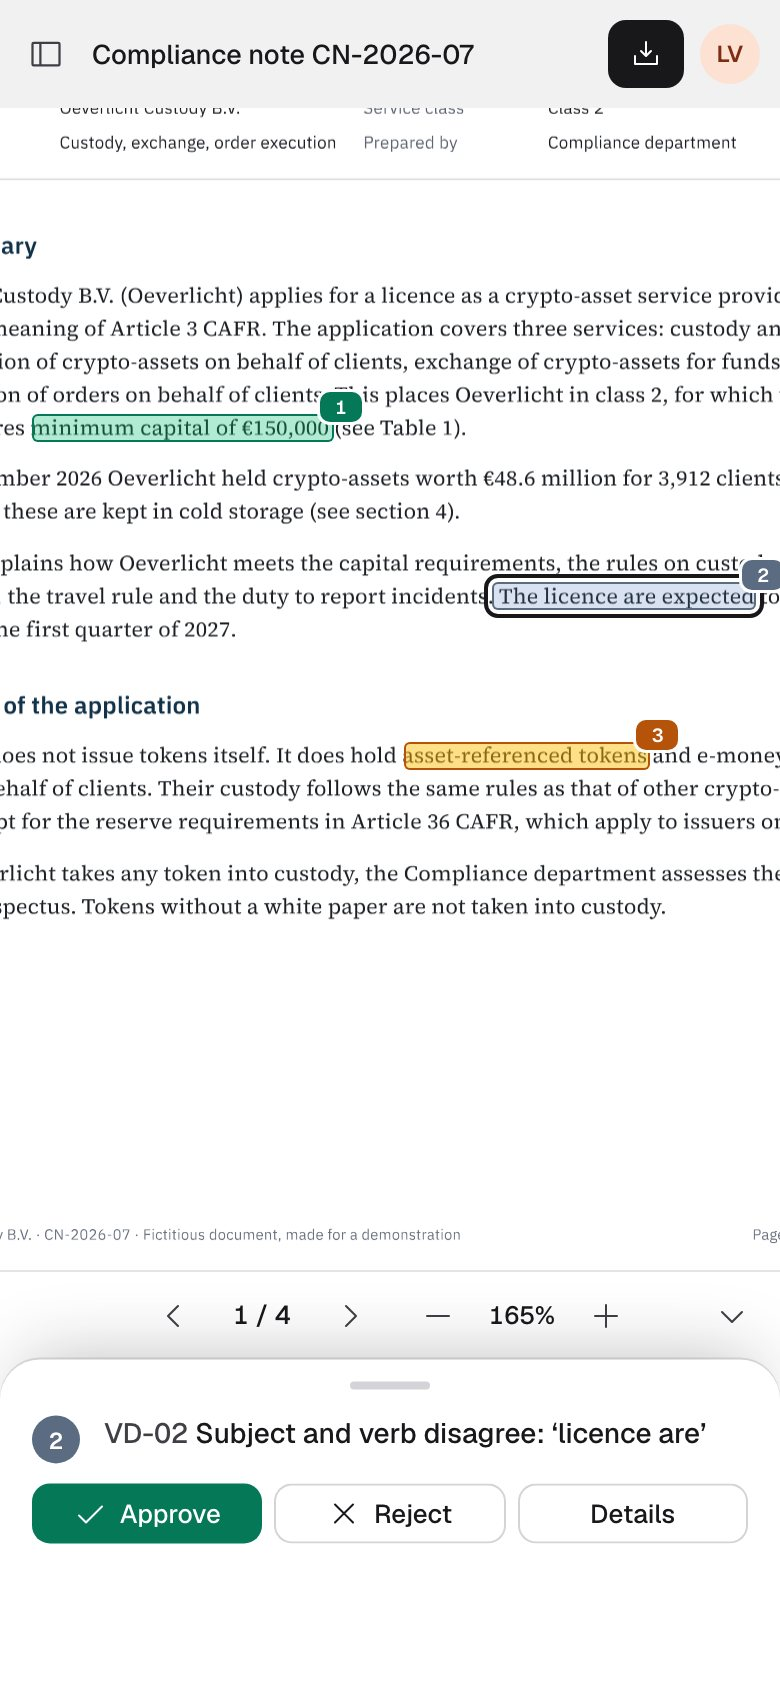
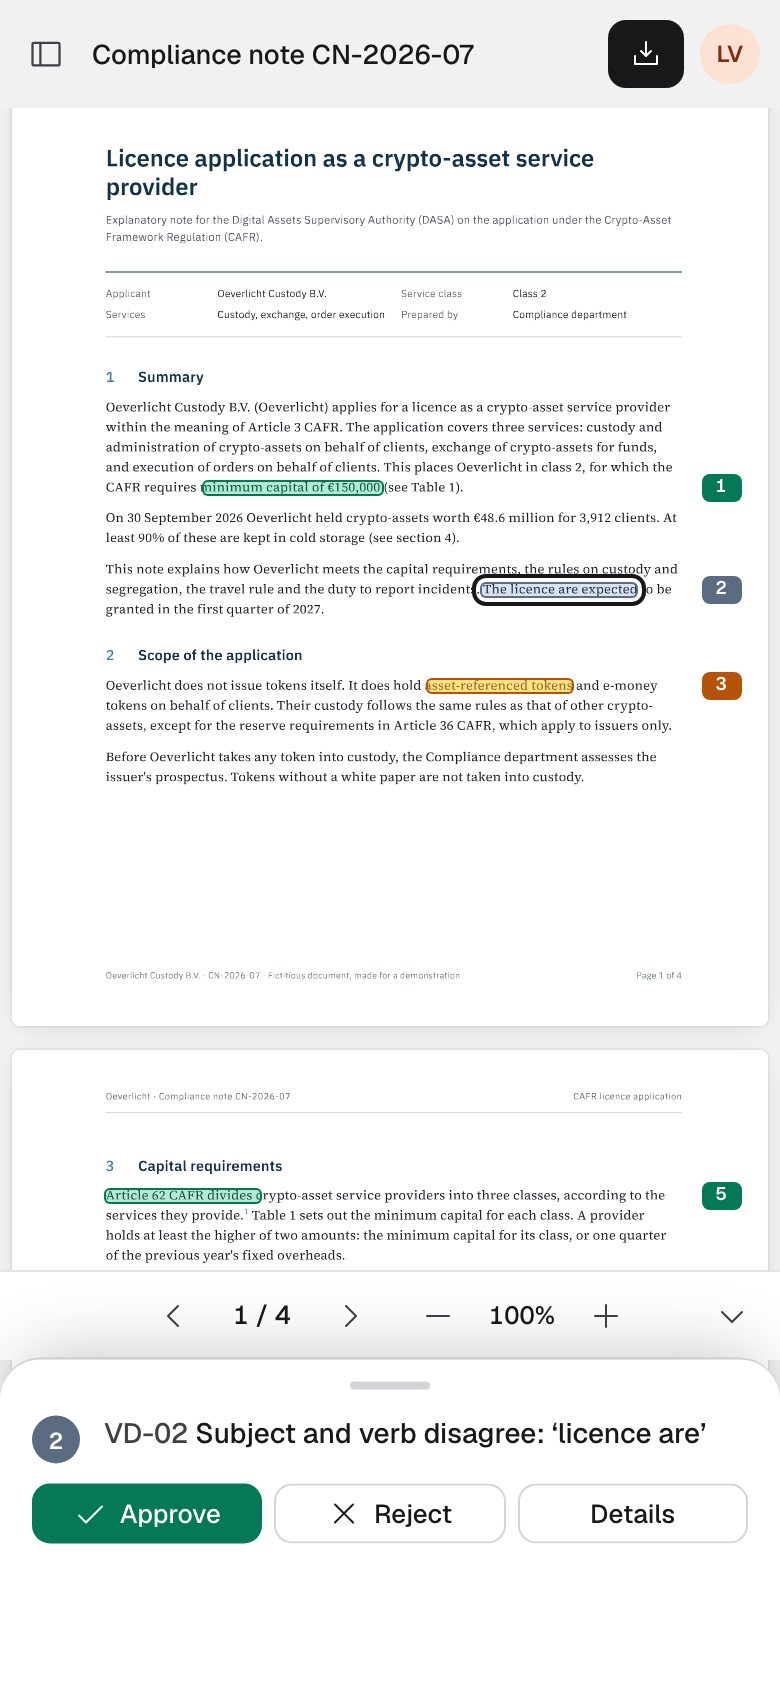
docs: retake the finding and phone screenshots; describe the phone at full width

diff --git a/README.md b/README.md
@@ -8,7 +8,7 @@ A review desk for regulatory documents. AI models and language tools read the do
 
 ## What the desk does
 
-- **One document, mistakes marked in place.** The desk renders the PDF itself with PDF.js, finds each finding's quoted text in it and tints that text with a see-through colour, so the words stay readable. A small numbered badge sits at the highlight's top corner, and the same number tags its card. Every finding has a key (`VD-01` …) the team can refer to.
+- **One document, mistakes marked in place.** The desk renders the PDF itself with PDF.js, finds each finding's quoted text in it and tints that text with a see-through colour, so the words stay readable. A small numbered badge sits at the highlight's top corner (on a phone, in the margin beside its line), and the same number tags its card. Every finding has a key (`VD-01` …) the team can refer to.
 - **Findings float beside the page, like comments in Google Docs.** Each finding is a card level with its text that scrolls with the document. Folded, it shows its title, severity and who decided; opened, it shows the current text, the suggestion (the new wording, changes in green), any alternative wording from another tool, and the decisions. The cards around it move aside.
 - **Filters** by severity, type and the tool that found it, with counts, plus All / Open / Approved / Rejected and a search. They stay pinned at the top of the findings.
 - **Team decisions.** Approve, reject or edit a suggestion; each decision records who made it and when, so one finding can be approved by one person and rejected by another.
@@ -16,7 +16,7 @@ A review desk for regulatory documents. AI models and language tools read the do
 - **Dashboard** (progress, open findings by severity, recent decisions), **Reviews** (every finding and the full history of who approved, rejected or edited what) and **Documents**.
 - **Export** of every finding, or only the approved ones, with its decision and who made it, as CSV or as a Markdown report.
 - **Keyboard:** `j`/`k` next and previous, `a` approve, `x` reject, `e` edit, `/` search, `Esc` folds the open card. A bar under the page shows them with the page and zoom controls; it hides behind a small arrow.
-- **Phone:** the page at reading size, the findings in a sheet that slides up, approve or reject from its peek.
+- **Phone:** the page at its full width, as phone PDF readers show it (+ or pinch to zoom in), each badge in the page's margin level with its line, the findings in a sheet that slides up, approve or reject from its peek.
 
 | | |
 |---|---|
